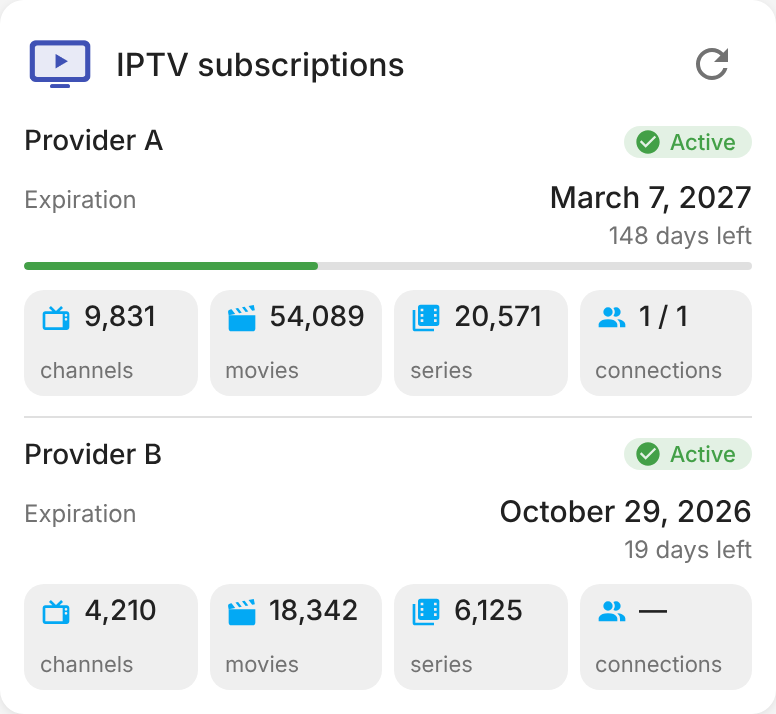
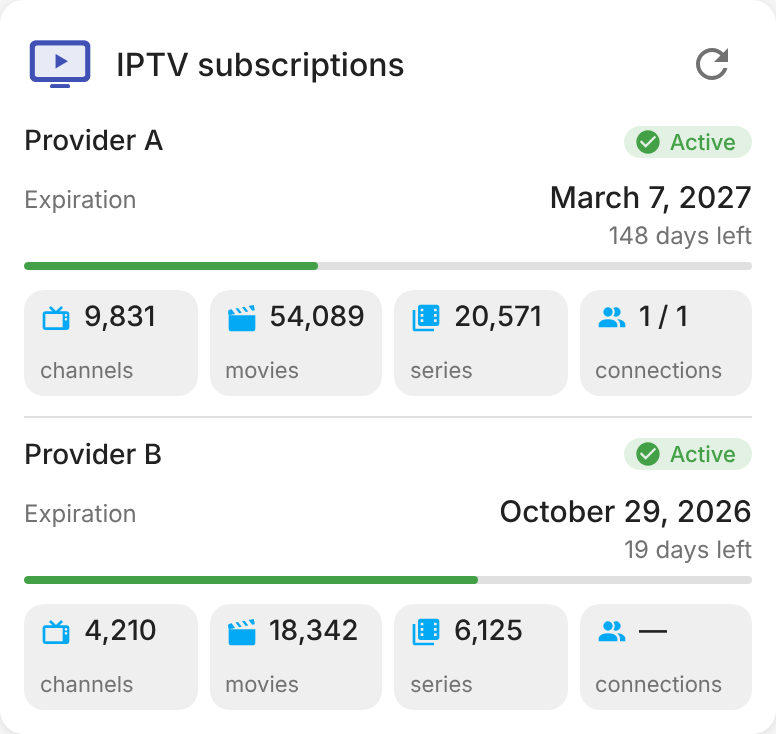
Estimate the expiration bar on Stalker accounts (2.4.1) (#8)
Stalker portals expose no start date: the card now assumes the shortest
usual subscription length (1, 3, 6 or 12 months, then whole years) that
covers the days left.

Claude-Session: https://claude.ai/code/session_01Nef7oocvL8tyqa2wDZRCex

diff --git a/custom_components/iptv_xtream/frontend/iptv-card.js b/custom_components/iptv_xtream/frontend/iptv-card.js
@@ -8,7 +8,7 @@
  *
  * https://github.com/juju35/ha-iptv
  */
-var IPTV_CARD_VERSION = '2.4.0';
+var IPTV_CARD_VERSION = '2.4.1';
 var IPTV_DOMAIN = 'iptv_xtream';
 var IPTV_LOGO_URL = '/' + IPTV_DOMAIN + '/logo.png?v=' + IPTV_CARD_VERSION;
 
@@ -241,6 +241,14 @@ class IptvCard extends HTMLElement {
     var pct = null;
     if (exp && created && exp > created) {
       pct = Math.min(100, Math.max(0, ((exp - now) / (exp - created)) * 100));
+    } else if (exp && exp > now) {
+      // No start date (Stalker portals): assume the shortest usual subscription
+      // length (1, 3, 6 or 12 months, then whole years) that covers the time left
+      var day = 86400000;
+      var left = exp - now;
+      var period = [30, 91, 182, 365].map((n) => n * day).find((p) => p >= left) ||
+        Math.ceil(left / (365 * day)) * 365 * day;
+      pct = Math.min(100, (left / period) * 100);
     }
     return { exp: exp, daysLeft: daysLeft, state: state, statusLabel: statusLabel, pct: pct, d: d };
   }

diff --git a/scripts/screenshots.py b/scripts/screenshots.py
@@ -89,7 +89,7 @@ SUBSCRIPTIONS = {
         "movies": ("sensor", "54089"),
         "series": ("sensor", "20571"),
     }),
-    # A Stalker (MAC) account: no connection counts, no start date, so no bar.
+    # A Stalker (MAC) account: no connection counts and no start date (the bar is estimated).
     "iptv2": ("Provider B", {
         "status": ("sensor", "active"),
         "expiration": ("sensor", "2026-10-29T00:00:00+00:00"),

diff --git a/custom_components/iptv_xtream/const.py b/custom_components/iptv_xtream/const.py
@@ -1,7 +1,7 @@
 """Constants for the IPTV integration."""
 
 DOMAIN = "iptv_xtream"
-VERSION = "2.4.0"
+VERSION = "2.4.1"
 
 CONF_SCAN_INTERVAL = "scan_interval"
 DEFAULT_SCAN_INTERVAL = 60  # minutes

diff --git a/README.md b/README.md
@@ -18,7 +18,7 @@ Home Assistant integration and Lovelace card that track one or several **IPTV su
 - **Home Assistant integration** (UI setup, no YAML): one device per account with sensors you can use in automations
 - **Lovelace card bundled with the integration**, added automatically to the dashboard resources (nothing to add by hand)
 - Subscription status (Active, Expired, Banned, Disabled, invalid credentials) with color coding
-- Expiration date, days left and a progress bar since the subscription started
+- Expiration date, days left and a progress bar since the subscription started (estimated on Stalker portals)
 - Number of live channels, movies (VOD) and series
 - Active / maximum connections, trial badge
 - Several providers in one card, one section per subscription
@@ -89,7 +89,7 @@ Delete the account in **Settings → Devices & services → IPTV Xtream**, then 
 
 The credentials are checked before the account is added. Add the integration once per account; both provider types can live side by side and share the same card. The URL and credentials can be changed later with **⋮ → Reconfigure**, and the refresh interval (default 60 minutes, minimum 5) with **Configure**.
 
-> **Stalker portals** do not expose a start date, the connection counts or the trial flag, so those are shown as `—` (the expiration progress bar needs the start date and is hidden). Expiration and the live / VOD / series counts are read from the portal's `account_info` and `get_ordered_list` endpoints.
+> **Stalker portals** do not expose a start date, the connection counts or the trial flag, so those are shown as `—` (the expiration progress bar then assumes the shortest usual subscription length, 1, 3, 6 or 12 months, that covers the days left). Expiration and the live / VOD / series counts are read from the portal's `account_info` and `get_ordered_list` endpoints.
 
 ### Entities
 

diff --git a/CHANGELOG.md b/CHANGELOG.md
@@ -1,5 +1,10 @@
 # Changelog
 
+## 2.4.1
+
+### Fixes
+- Stalker accounts show the expiration bar again. Without a start date, the card assumes the shortest usual subscription length (1, 3, 6 or 12 months, then whole years) that covers the days left.
+
 ## 2.4.0
 
 ### What's new
